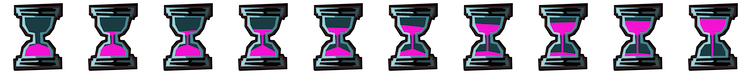
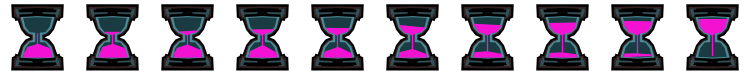
better flipping

Changed region(s): [[0.6133, 0.0267, 1.0, 0.96], [0.2147, 0.0267, 0.5827, 0.96], [0.0, 0.0267, 0.184, 0.96]]

diff --git a/scenes/scene1.js b/scenes/scene1.js
@@ -1,46 +1,52 @@
-Crafty.scene("scene3", function() {
-  /*
-   * Platforms
-   */
-  Crafty.e('ABPlatform').attr({ x: 0, y: 700, w: 800, h: 50});
-  Crafty.e('ABPlatform').attr({ x: 225, y: 650, w: 575, h: 50});
-  Crafty.e('ABPlatform').attr({ x: 350, y: 600, w: 450, h: 50});
-  Crafty.e('ABPlatform').attr({ x: 450, y: 550, w: 350, h: 50});
-  Crafty.e('ABPlatform').attr({ x: 550, y: 500, w: 250, h: 50});
-  Crafty.e('ABPlatform').attr({ x: 650, y: 450, w: 150, h: 50});
-  Crafty.e('ABPlatform').attr({ x: 0, y: 350, w: 450, h: 50});
-  Crafty.e('ABPlatform').attr({ x: 0, y: 300, w: 325, h: 50});
-  Crafty.e('ABPlatform').attr({ x: 0, y: 250, w: 200, h: 50});
-  Crafty.e('ABPlatform').attr({ x: 0, y: 200, w: 100, h: 50});
-  Crafty.e('ABPlatform').attr({ x: 300, y: 75, w: 500, h: 50});
-
-  Crafty.e('ABExit').attr({ x: 725, y: 0, w: 75, h: 75});
-  
-  Crafty.e('ABPlayer').attr({ x: 50, y: 600});
-  
-  
-  /*
-   * Screen
-   */
-   //Crafty.e("ABScreen");
-   //Crafty.e("ABExit");
+Crafty.scene('scene1-1', function() {
+    Crafty.e('ABPlatform').attr({ x: 0, y: 700, w: 775, h: 50});
+    Crafty.e('ABPlatform').attr({ x: 225, y: 650, w: 400, h: 50});
+    Crafty.e('ABExit').attr({ x: 700, y: 625, w: 75, h: 75});
+    Crafty.e('ABPlayer').attr({ x: 50, y: 625, w: 75, h: 75});
+    Crafty.e('ABPlatform').attr({ x: 0, y: -50, w: 50, h: 750});
+    Crafty.e('ABPlatform').attr({ x: 50, y: -50, w: 750, h: 50});
+    Crafty.e('ABPlatform').attr({ x: 725, y: 0, w: 75, h: 475});
 });
 
-
-Crafty.scene("scene4", function() {
-  
-  //Platforms
-  Crafty.e('ABPlatform').attr({ x: 0, y: 700, w: 800, h: 50});
-  Crafty.e('ABExit').attr({ x: 725, y: 625, w: 75, h: 75});
-  Crafty.e('ABPlatform').attr({ x: 0, y: 75, w: 500, h: 50});
-  Crafty.e('ABPlayer').attr({ x: 25, y: 0, w: 75, h: 75});
-  Crafty.e('ABPlatform').attr({ x: 225, y: 225, w: 575, h: 50});
-  Crafty.e('ABPlatform').attr({ x: 0, y: 375, w: 500, h: 50});
-  Crafty.e('ABPlatform').attr({ x: 225, y: 525, w: 575, h: 50});
-  Crafty.e('ABPlatform').attr({ x: 0, y: 125, w: 50, h: 575});
-  Crafty.e('ABPlatform').attr({ x: 750, y: -50, w: 50, h: 575});
-
-
+Crafty.scene('scene1-2', function() {
+    Crafty.e('ABPlatform').attr({ x: 0, y: 700, w: 800, h: 50});
+    Crafty.e('ABExit').attr({ x: 675, y: 625, w: 75, h: 75});
+    Crafty.e('ABPlayer').attr({ x: 25, y: 625, w: 75, h: 75});
+    Crafty.e('ABPlatform').attr({ x: 0, y: -50, w: 750, h: 50});
+    Crafty.e('ABPlatform').attr({ x: 0, y: 425, w: 300, h: 50});
+    Crafty.e('ABPlatform').attr({ x: 225, y: 600, w: 350, h: 100});
+    Crafty.e('ABPlatform').attr({ x: 525, y: 150, w: 50, h: 450});
+    Crafty.e('ABPlatform').attr({ x: 325, y: 250, w: 200, h: 50});
+    Crafty.e('ABPlatform').attr({ x: 0, y: 0, w: 50, h: 425});
+    Crafty.e('ABPlatform').attr({ x: 700, y: 0, w: 50, h: 550});
 });
 
+Crafty.scene('scene1-3', function() {
+    Crafty.e('ABPlatform').attr({ x: 0, y: 700, w: 800, h: 50});
+    Crafty.e('ABPlatform').attr({ x: 225, y: 650, w: 575, h: 50});
+    Crafty.e('ABPlatform').attr({ x: 350, y: 600, w: 450, h: 50});
+    Crafty.e('ABPlatform').attr({ x: 450, y: 550, w: 350, h: 50});
+    Crafty.e('ABPlatform').attr({ x: 550, y: 500, w: 250, h: 50});
+    Crafty.e('ABPlatform').attr({ x: 650, y: 450, w: 150, h: 50});
+    Crafty.e('ABPlatform').attr({ x: 0, y: 350, w: 450, h: 50});
+    Crafty.e('ABPlatform').attr({ x: 0, y: 300, w: 325, h: 50});
+    Crafty.e('ABPlatform').attr({ x: 0, y: 250, w: 200, h: 50});
+    Crafty.e('ABPlatform').attr({ x: 0, y: 200, w: 100, h: 50});
+    Crafty.e('ABExit').attr({ x: 650, y: 50, w: 75, h: 75});
+    Crafty.e('ABPlatform').attr({ x: 300, y: 125, w: 475, h: 50});
+    Crafty.e('ABPlayer').attr({ x: 0, y: 625, w: 75, h: 75});
+    Crafty.e('ABPlatform').attr({ x: 0, y: -50, w: 50, h: 600});
+    Crafty.e('ABPlatform').attr({ x: 725, y: 175, w: 50, h: 275});
+});
 
+Crafty.scene('scene1-4', function() {
+    Crafty.e('ABPlatform').attr({ x: 0, y: 700, w: 800, h: 50});
+    Crafty.e('ABExit').attr({ x: 725, y: 625, w: 75, h: 75});
+    Crafty.e('ABPlatform').attr({ x: 0, y: 75, w: 500, h: 50});
+    Crafty.e('ABPlayer').attr({ x: 25, y: 0, w: 75, h: 75});
+    Crafty.e('ABPlatform').attr({ x: 225, y: 225, w: 575, h: 50});
+    Crafty.e('ABPlatform').attr({ x: 0, y: 375, w: 500, h: 50});
+    Crafty.e('ABPlatform').attr({ x: 225, y: 525, w: 575, h: 50});
+    Crafty.e('ABPlatform').attr({ x: 0, y: 125, w: 50, h: 575});
+    Crafty.e('ABPlatform').attr({ x: 750, y: -50, w: 50, h: 575});
+});

diff --git a/components/player.js b/components/player.js
@@ -217,7 +217,8 @@ Crafty.c("Jumper", {
         this._jumping = true;
         var self = this;
         
-        this.tween({rotation: 180}, this.hangtime);
+        var factor = (this._movement && this._movement.x < 0)? -1 : 1;
+        this.tween({rotation: 180*factor}, this.hangtime);
       }
     },
     

diff --git a/game.js b/game.js
@@ -15,8 +15,7 @@ var ABGame = {
   
   curScene: 0,
   scenes: ['splash',
-    'scene1', 
-    'scene2',
+    'scene1-1', 'scene1-2', 'scene1-3', 'scene1-4',
     /* NEW SCENES HERE */
     'game_over'],
     
